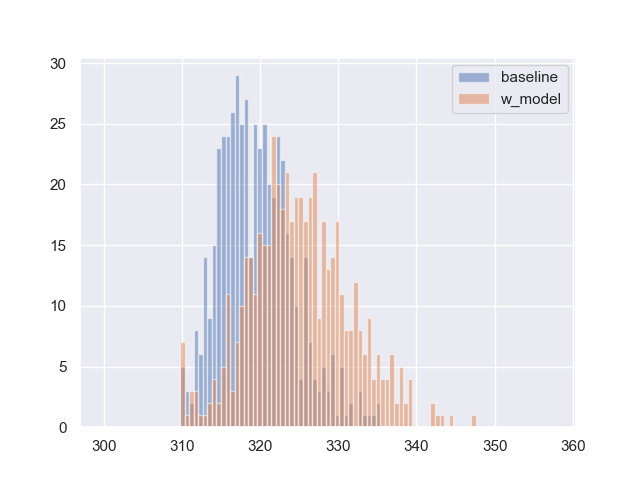
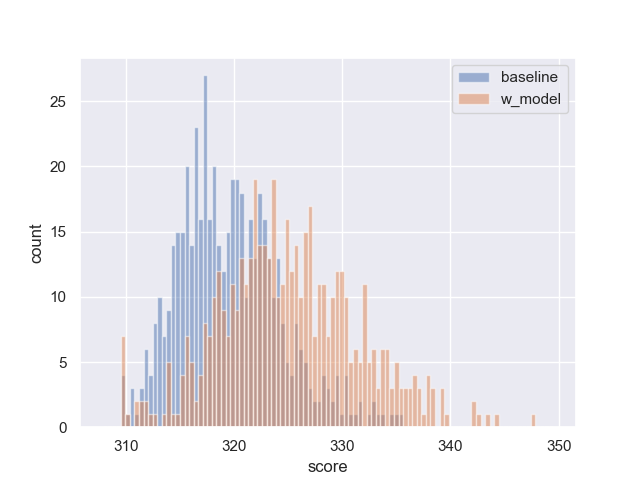
update simulation result plots

diff --git a/data/experiments/analysis/stats.py b/data/experiments/analysis/stats.py
@@ -98,11 +98,12 @@ def analysis_scores_initial_and_final_vs_equilibrium():
     reject = p_value < alpha
     print("One-sided t-test p-value: {}, reject H_0: {}".format(p_value, reject))
     means = [np.mean(fi_v_eq), np.mean(in_v_eq)]
-    print("Mean: fi_v_eq={}, in_v_eq={}".format(means[0], means[1]))
+    print("Mean: fi_v_eq={}, in_v_eq={}".format(means[0], means[1]), "score bin")
     _plot(
         in_v_eq,
         fi_v_eq,
         "scores_in_d_eq_vs_fi_d_eq.png",
+        "score bin",
         label_one="Difference btw initial and equilibrium scores",
         label_two="Difference btw final and equilibrium scores",
     )
@@ -157,7 +158,7 @@ def analysis_scores_final_min_initial():
     print("Mean: w_model={}, baseline={}".format(means[0], means[1]))
     # sns.distplot(w_model)
     # plt.show()
-    _plot(baseline, w_model, "scores_final_min_initial.png")
+    _plot(baseline, w_model, "scores_final_min_initial.png", "score bin")
 
 
 def analysis_scores():
@@ -200,7 +201,7 @@ def analysis_scores():
     print("Mean: w_model={}, baseline={}".format(means[0], means[1]))
     # sns.distplot(w_model)
     # plt.show()
-    _plot(baseline, w_model, "scores.png")
+    _plot(baseline, w_model, "scores.png", "score", extra = 2)
 
 
 def analysis_txs():
@@ -247,7 +248,7 @@ def analysis_txs():
         print("Mean: w_model={}, baseline={}".format(means[0], means[1]))
         # sns.distplot(w_model)
         # plt.show()
-        _plot(baseline, w_model, "txs_{}.png".format(typ))
+        _plot(baseline, w_model, "txs_{}.png".format(typ), "no. of transactions", extra = 2)
 
 
 def analysis_prices():
@@ -284,17 +285,21 @@ def analysis_prices():
     print("Mean: w_model={}, baseline={}".format(means[0], means[1]))
     # sns.distplot(w_model)
     # plt.show()
-    _plot(baseline, w_model, "prices.png")
+    _plot(baseline, w_model, "prices.png", "price", extra=0.2)
 
 
-def _plot(baseline, w_model, file, label_one="baseline", label_two="w_model"):
+def _plot(baseline, w_model, file, x_label, label_one="baseline", label_two="w_model", cut_at_zero = True, extra = 10):
     """Plot helpert function."""
-    min_bin = min(baseline.min(), w_model.min()) - 10
-    max_bin = max(baseline.max(), w_model.max()) + 10
+    min_bin = min(baseline.min(), w_model.min()) - extra
+    if cut_at_zero:
+        min_bin = max(min_bin, 0)
+    max_bin = max(baseline.max(), w_model.max()) + extra
     bins = np.linspace(min_bin, max_bin, 100)
     plt.hist(baseline, bins, alpha=0.5, label=label_one)
     plt.hist(w_model, bins, alpha=0.5, label=label_two)
     plt.legend(loc="upper right")
+    plt.ylabel('count')
+    plt.xlabel(x_label)
     # plt.show()
     plt.savefig(file)
     plt.clf()
